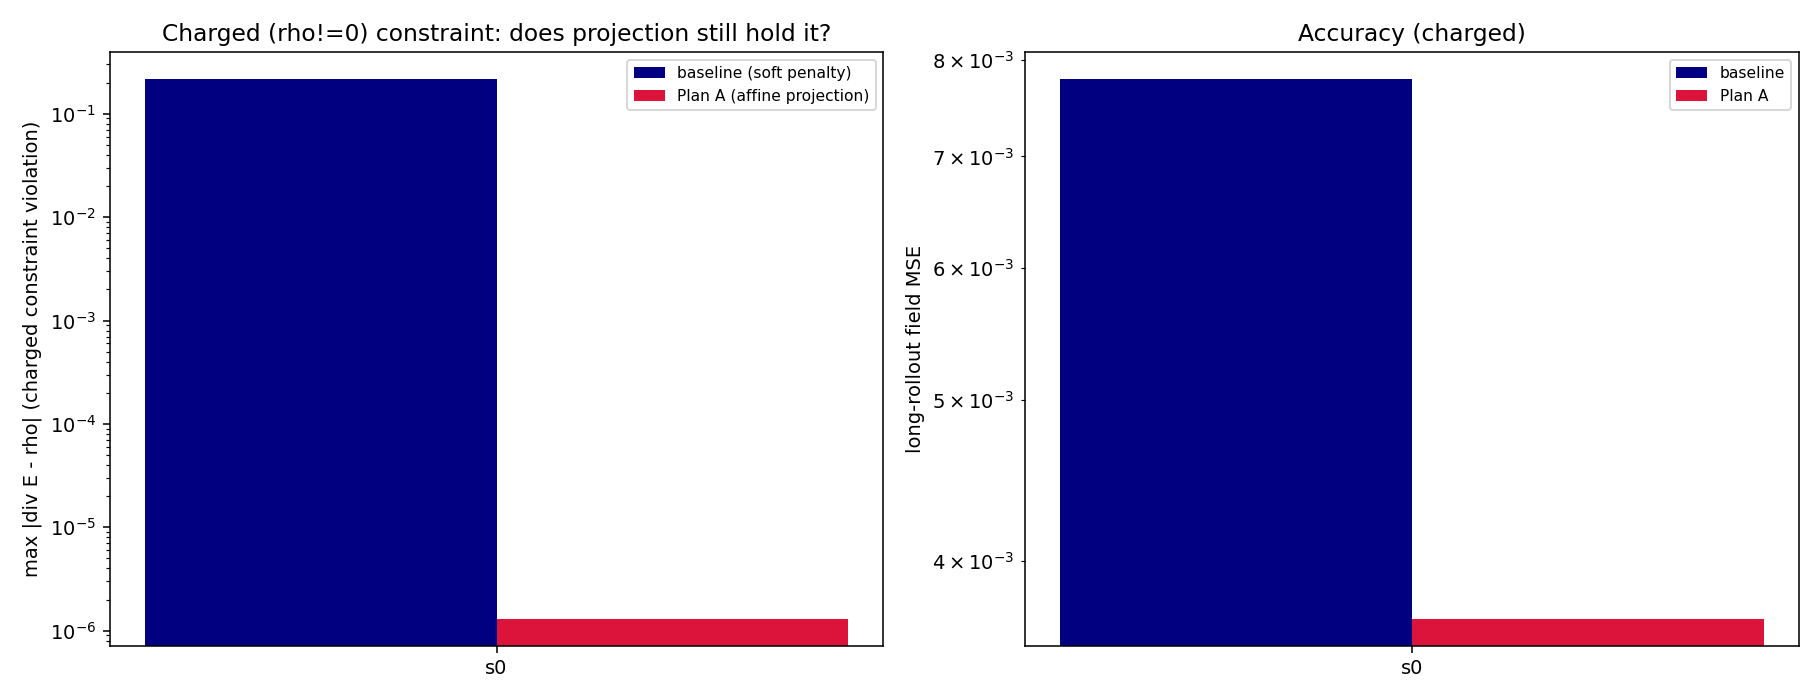
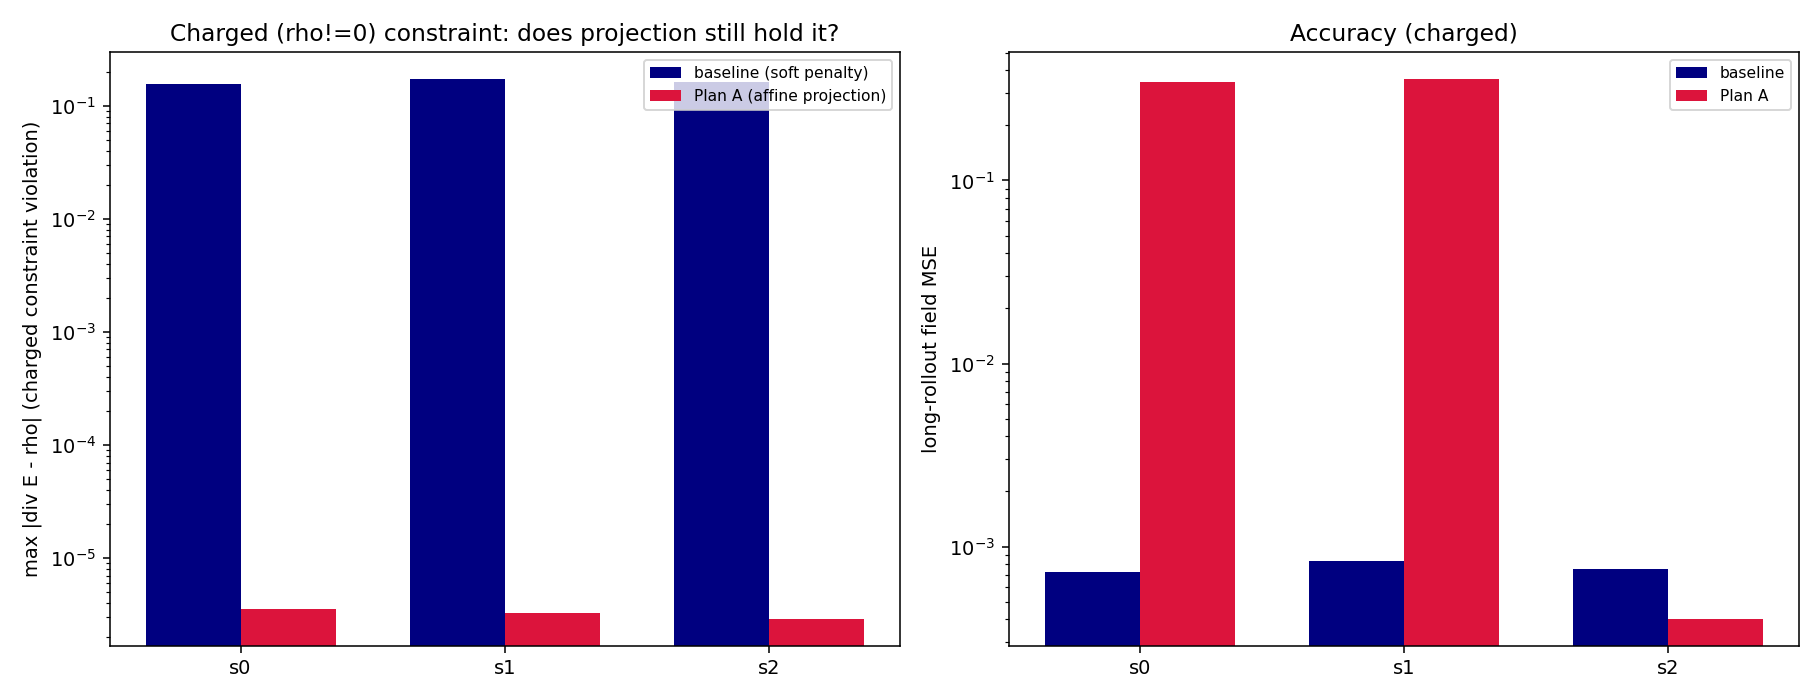
Hail Mary Exp 5 stress test: charged constraint -- projection generalizes (C1) but Plan A accuracy does not (C2)
Non-vacuum (rho!=0) affine constraint, 3 seeds. C1 robust: affine projection holds
div E = rho ~3e-6 every seed (the constraint result is not vacuum-only). C2 humbling:
Plan A 1-step DIVERGES on 2/3 charged seeds (0.35), soft baseline more accurate (7.5e-4)
-- the stability wall bites harder on charged. Refined claim: only constraint-enforcement
generalizes robustly; don't claim Plan A is 'more accurate' in general. Next: charged +
push-forward (untested cell). Stress test confirmed the robust part, humbled the shaky one.

diff --git a/curvature/notes/hail_mary.md b/curvature/notes/hail_mary.md
@@ -187,3 +187,19 @@ robust; Plan B (residual stream) is NOT -- it diverges ~half the time.** The cle
 right default; the stream has real upside (won 2/8, sometimes big) but its instability makes it unusable without
 serious stabilization (the opaque end-to-end latent hand-off is hard to train stably). Stress-testing converted
 a tentative finding into a decisive one -- exactly its job.
+
+### Experiment 5 STRESS TEST — non-vacuum (charged) constraint, 2026-06-20
+Stress-tests the Exp 1 headline ("projection enforces the constraint") on a NON-trivial affine constraint: static
+charges rho!=0, div E = rho, affine Leray projection (E_new = E - grad phi, lap phi = div E - rho). Ground truth
+preserves div E = rho (2e-6, verified). 3 seeds, grid 32, 1-step training (mirroring Exp 1).
+    seed:                0        1        2     (baseline)
+    C1 plan |divE-rho|:  3.6e-6   3.3e-6   2.9e-6   (~0.16)  -> holds the CHARGED constraint, robust
+    C2 plan field MSE:   0.345    0.357    4.0e-4   (~7.5e-4)
+**C1 ✓✓ ROBUST: the constraint-projection GENERALIZES from vacuum to the non-trivial charged constraint** (~3e-6
+every seed, by construction) -- the headline is not a vacuum-only trick. **C2 ✗ (humbling, honest): Plan A's
+ACCURACY does NOT generalize** -- with 1-step training it DIVERGES on 2/3 charged seeds (0.35), and the soft
+baseline (7.5e-4) is MORE accurate. This reconfirms, more starkly than vacuum (Plan A diverged 1/3 there),
+that STABILITY is a separate wall 1-step Plan A fails -- and it fails MORE on the harder charged case. **Refined
+claim: only the constraint-ENFORCEMENT generalizes robustly; we must NOT claim Plan A is "more accurate" in
+general.** Clear next test (untested cell): charged + push-forward training (Exp 3's stability fix) -- does it give
+constraint-held AND stable? The stress test did its job: confirmed the robust part, humbled the shaky part.
